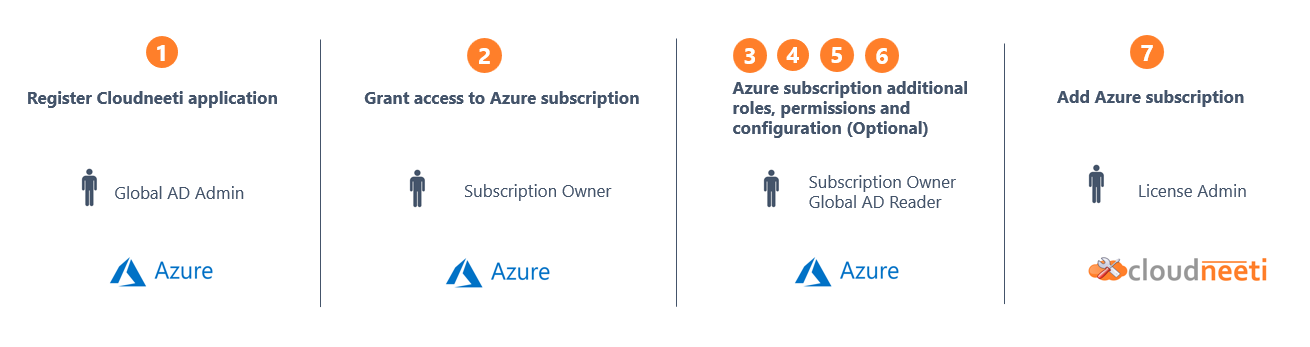
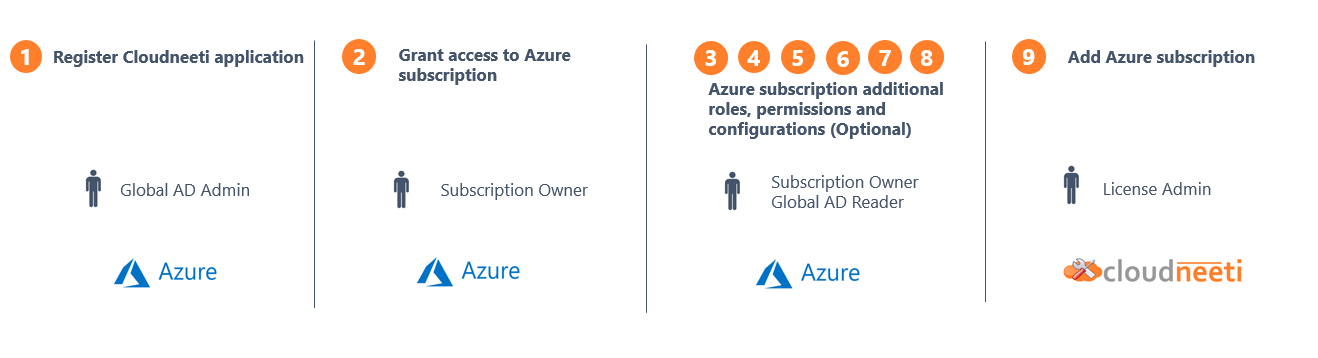
Updated Azure onboarding and kuberntes pages

diff --git a/docs/onboardingGuide/office365Subscription.md b/docs/onboardingGuide/office365Subscription.md
@@ -622,24 +622,24 @@ Advanced security configuration done using Office 365 App Password will not enab
 |   M800.10     |  22. Ensure MailTips are enabled for end users |M365 - Email Security / Exchange Online |
 |  M800.11      |  23. Ensure basic authentication for Exchange Online is disabled |M365 - Email Security / Exchange Online |
 |    M010.2    |  24. Block OneDrive for Business sync from unmanaged devices |M365 - Storage |
-| M400.32 | Ensure that 'Number of methods required to reset' is set to '2'                                                      | M365 - Identity |
-| M400.33 | 25. Ensure that 'Number of days before users are asked to re-confirm their authentication information' is not set to '0' | M365 - Identity |
-| M400.34 | 26. Ensure that 'Notify all admins when other admins reset their password?' is set to 'Yes'                              | M365 - Identity |
-| M400.35 | 27. Ensure that 'Notify users on password resets?' is set to 'Yes'                                                       | M365 - Identity |
-| M400.36 | 28. Ensure that 'Users can consent to apps accessing company data on their behalf' is set to 'No'                        | M365 - Identity |
-| M400.37 | 29. Ensure that 'Users can add gallery apps to their Access Panel' is set to 'No'                                        | M365 - Identity |
-| M400.38 | 30. Ensure that 'Users can register applications' is set to 'No'                                                         | M365 - Identity |
-| M400.39 | 31. Ensure that 'Guest user permissions are limited' is set to 'Yes'                                                     | M365 - Identity |
-| M400.40 | 32. Ensure that 'Members can invite' is set to 'No'                                                                      | M365 - Identity |
-| M400.41 | 33. Ensure that 'Guests can invite' is set to 'No'                                                                       | M365 - Identity |
-| M400.42 | 34. Ensure that 'Restrict access to Azure AD administration portal' is set to 'Yes'                                      | M365 - Identity |
-| M400.43 | 35. Ensure that 'Self-service group management enabled' is set to 'No'                                                   | M365 - Identity |
-| M400.44 | 36. Ensure that 'Users can create security groups' is set to 'No'                                                        | M365 - Identity |
-| M400.45 | 37. Ensure that 'Users who can manage security groups' is set to 'None'                                                  | M365 - Identity |
-| M400.46 | 38. Ensure that 'Users can create Office 365 groups' is set to 'No'                                                      | M365 - Identity |
-| M400.47 | 39. Ensure that 'Users who can manage Office 365 groups' is set to 'None'                                                | M365 - Identity |
-| M400.48 | 40. Ensure that 'Enable All Users group' is set to 'Yes'                                                                 | M365 - Identity |
-| M400.49 | 41. Ensure that 'Require Multi-Factor Auth to join devices' is set to 'Yes'                                              | M365 - Identity |
+| M400.32 | 25. Ensure that 'Number of methods required to reset' is set to '2'                                                      | M365 - Identity |
+| M400.33 | 26. Ensure that 'Number of days before users are asked to re-confirm their authentication information' is not set to '0' | M365 - Identity |
+| M400.34 | 27. Ensure that 'Notify all admins when other admins reset their password?' is set to 'Yes'                              | M365 - Identity |
+| M400.35 | 28. Ensure that 'Notify users on password resets?' is set to 'Yes'                                                       | M365 - Identity |
+| M400.36 | 29. Ensure that 'Users can consent to apps accessing company data on their behalf' is set to 'No'                        | M365 - Identity |
+| M400.37 | 30. Ensure that 'Users can add gallery apps to their Access Panel' is set to 'No'                                        | M365 - Identity |
+| M400.38 | 31. Ensure that 'Users can register applications' is set to 'No'                                                         | M365 - Identity |
+| M400.39 | 32. Ensure that 'Guest user permissions are limited' is set to 'Yes'                                                     | M365 - Identity |
+| M400.40 | 33. Ensure that 'Members can invite' is set to 'No'                                                                      | M365 - Identity |
+| M400.41 | 34. Ensure that 'Guests can invite' is set to 'No'                                                                       | M365 - Identity |
+| M400.42 | 35. Ensure that 'Restrict access to Azure AD administration portal' is set to 'Yes'                                      | M365 - Identity |
+| M400.43 | 36. Ensure that 'Self-service group management enabled' is set to 'No'                                                   | M365 - Identity |
+| M400.44 | 37. Ensure that 'Users can create security groups' is set to 'No'                                                        | M365 - Identity |
+| M400.45 | 38. Ensure that 'Users who can manage security groups' is set to 'None'                                                  | M365 - Identity |
+| M400.46 | 39. Ensure that 'Users can create Office 365 groups' is set to 'No'                                                      | M365 - Identity |
+| M400.47 | 40. Ensure that 'Users who can manage Office 365 groups' is set to 'None'                                                | M365 - Identity |
+| M400.48 | 41. Ensure that 'Enable All Users group' is set to 'Yes'                                                                 | M365 - Identity |
+| M400.49 | 42. Ensure that 'Require Multi-Factor Auth to join devices' is set to 'Yes'                                              | M365 - Identity |
 
 
 

diff --git a/docs/onboardingGuide/azureSubscriptions.md b/docs/onboardingGuide/azureSubscriptions.md
@@ -40,7 +40,8 @@ The following steps are required to onboard Microsoft Azure to the Cloudneeti ap
 | 5 | [Advanced Security configuration](../../onboardingGuide/azureAdvancedSecurityConfiguration/)            | Microsoft Azure| Subscription Owner, Global AD Reader          | optional  | 18            |
 | 6 | [Configure quick wins](../../remediation/azureQuickWins/)                      | Microsoft Azure| Subscription Owner           | optional  | 137            |
 | 7 | [Configure OS baseline and vulnerability scanning](../../onboardingGuide/azureVulnerability/)                   | Microsoft Azure     | Subscription Owner           | optional | 513            |
-| 8 | [Add Azure subscription](../../onboardingGuide/azureSubscriptions/#step-8-add-azure-subscription)                    | Cloudneeti     | License Admin           | mandatory | 0            |
+| 8 | [Configure Cloudneeti agent on Kubernetes](../../onboardingGuide/configureCloudneetiAgentInKubernetesCluster/)                   | Microsoft Azure     | Subscription Owner           | optional | 30            |
+| 9 | [Add Azure subscription](../../onboardingGuide/azureSubscriptions/#step-8-add-azure-subscription)                    | Cloudneeti     | License Admin           | mandatory | 0            |
 
 ### Required Roles
 
@@ -330,17 +331,26 @@ Deploy partner vulnerability scanning in Azure Security Center and installing th
 
 Please follow [link](../../onboardingGuide/azureVulnerability/) for steps.
 
-## STEP 8: Add Azure Subscription
+
+## STEP 8: Configure Cloudneeti agent on Kubernetes
+**This step is optional.** 
+
+Deploying Cloudneeti agent on Azure Kubernetes Service enables compliance monitoring of Kubernetes master node.
+An Azure docker agent is deployed to collect data for additional security policies.
+
+Please follow [link](../../onboardingGuide/configureCloudneetiAgentInKubernetesCluster/) for steps.
+
+## STEP 9: Add Azure Subscription
 
 The following steps are done by Cloudneeti application **License Admin** role.
 
-### 8.1 Activate the License
+### 9.1 Activate the License
 
 1.  Log in to the Cloudneeti application with **License Admin** role.
 2.  Click on **Activate License**
     ![Activate License](.././images/azureSubscriptions/Activate_License.png#thumbnail)
 
-### 8.2 Add Cloud Account
+### 9.2 Add Cloud Account
 
 1.  Select cloud connector for **Microsoft Azure**
     ![Add Account](.././images/azureSubscriptions/Azure_Select_Connector_Type.png#thumbnail)
@@ -357,7 +367,7 @@ The following steps are done by Cloudneeti application **License Admin** role.
 6.  You will receive a confirmation that the Azure subscription has been added.
     ![Add Account](.././images/azureSubscriptions/Account_Success.png#thumbnail)
 
-### 8.3 Data Collection
+### 9.3 Data Collection
 
 Once the Azure subscription is added to the cloud account under Cloudneeti
 License, it requires about 5 minutes for the data to be collected and processed,

diff --git a/docs/onboardingGuide/configureCloudneetiAgentInKubernetesCluster.md b/docs/onboardingGuide/configureCloudneetiAgentInKubernetesCluster.md
@@ -47,12 +47,12 @@ STEP 2: Deploy Cloudneeti agent
 
 ### 2.1 Update agent configuration scripts
 
-    - **cloudneeti-namespace.yaml** metadata section with value for namespace name.
+- **cloudneeti-namespace.yaml** metadata section with value for namespace name.
 
                 metadata:
                     name: cloudneeti
     
-    - **cloudneeti-agent-config.yaml** data section with values **cloudneeti-agent-config** downloaded in [STEP 1.](../../onboardingGuide/configureCloudneetiAgentInKubernetesCluster/#step-1-associate-kubernetes-cluster-with-cloud-account-in-cloudneeti)
+- **cloudneeti-agent-config.yaml** data section with values **cloudneeti-agent-config** downloaded in [STEP 1.](../../onboardingGuide/configureCloudneetiAgentInKubernetesCluster/#step-1-associate-kubernetes-cluster-with-cloud-account-in-cloudneeti)
 
                 
                 data:
@@ -61,9 +61,9 @@ STEP 2: Deploy Cloudneeti agent
                     accountId: "<cloudneetiaccountid>"
                     cloudneetiEnvironment: "<prod/trial>"
 
-    -  **cloudneeti-agent-secret.yaml** set the below values.
-        -  **namespace** as given in cloudneeti-namespace.yaml.
-        -  **cloudneetiAPIKey** Please follow steps to generate the key and set the key in base64 format.
+-  **cloudneeti-agent-secret.yaml** set the below values.
+    -  **namespace** as given in cloudneeti-namespace.yaml.
+    -  **cloudneetiAPIKey** Please follow steps to generate the key and set the key in base64 format.
 
                 metadata:
                     name: cloudneeti-agent
@@ -71,13 +71,13 @@ STEP 2: Deploy Cloudneeti agent
                 data:
                     cloudneetiAPIKey: <cloudneetiapikey>
 
-    -  **cloudneeti-agent.yaml** update value for **schedule** in spec section, set cron job schedule as per your requirement.
+-  **cloudneeti-agent.yaml** update value for **schedule** in spec section, set cron job schedule as per your requirement.
 
                 spec:
                     schedule: "0 12 * * *"
                 
 
-    Note: It is recommended set the execution time of Cloudneeti agent once a day.
+Note: It is recommended set the execution time of Cloudneeti agent once a day.
 
 ### 2.2 Deploy Cloudneeti agent on Kubernetes master
 
